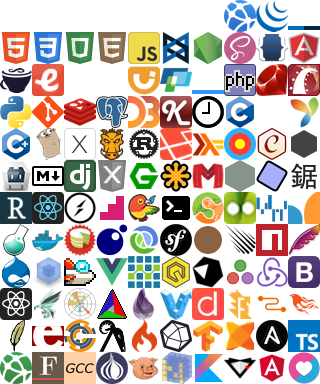
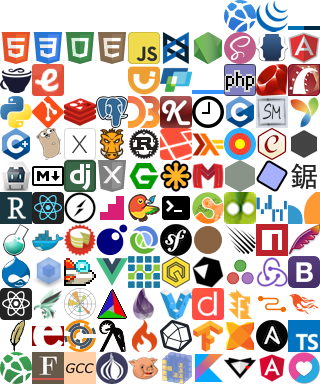
Finish Statsmodels scraper

Changed region(s): [[0.7812, 0.25, 0.9062, 0.3438]]

diff --git a/assets/stylesheets/global/_icons.scss b/assets/stylesheets/global/_icons.scss
@@ -88,6 +88,7 @@
 ._icon-knockout:before      { background-position: -5rem -3rem; }
 ._icon-moment:before        { background-position: -6rem -3rem; @extend %darkIconFix !optional; }
 ._icon-c:before             { background-position: -7rem -3rem; }
+._icon-statsmodels:before   { background-position: -8rem -3rem; }
 ._icon-yii:before,
 ._icon-yii1:before          { background-position: -9rem -3rem; }
 ._icon-cpp:before           { background-position: 0 -4rem; }

diff --git a/lib/docs/scrapers/statsmodels.rb b/lib/docs/scrapers/statsmodels.rb
@@ -1,9 +1,8 @@
 module Docs
   class Statsmodels < UrlScraper
-    self.name = 'Statsmodels'
     self.type = 'sphinx'
     self.release = '0.6.1'
-    self.base_url = "http://statsmodels.sourceforge.net/stable/"
+    self.base_url = 'http://statsmodels.sourceforge.net/stable/'
     self.root_path = 'index.html'
     self.links = {
       home: 'http://statsmodels.sourceforge.net/',
@@ -12,7 +11,7 @@ module Docs
 
     html_filters.push 'statsmodels/entries', 'statsmodels/clean_html', 'sphinx/clean_html'
 
-    options[:skip] = %w(about.html)
+    options[:skip] = %w(about.html search.html genindex.html)
     options[:skip_patterns] = [/\Arelease/, /\Adev/, /\A_modules/, /\Adatasets/]
 
     options[:attribution] = <<-HTML

diff --git a/lib/docs/filters/statsmodels/entries.rb b/lib/docs/filters/statsmodels/entries.rb
@@ -6,9 +6,12 @@ module Docs
           name = at_css('dt').content.strip
           name.sub! %r{\(.*}, '()' # Remove method arguments
           name.remove! %r{[\=\[].*} # Remove "[source]"
-          name.remove! %r{\A(class(method)?) (statsmodels\.)?}
+          name.remove! %r{\A(class(method)?) }
+          name.remove! %r{\Astatsmodels\.}
         else
           name = at_css('h1').content.strip
+          name.prepend 'Manual: ' if type == 'Manual'
+          name.prepend 'Example: ' if type == 'Examples'
         end
         name.remove! "\u{00B6}" # Remove ¶
         name

diff --git a/lib/docs/filters/sphinx/clean_html.rb b/lib/docs/filters/sphinx/clean_html.rb
@@ -2,7 +2,7 @@ module Docs
   class Sphinx
     class CleanHtmlFilter < Filter
       def call
-        css('.headerlink', 'hr', '#contents .topic-title', '#topics .topic-title', 'colgroup', '.line-block').remove
+        css('.headerlink', 'hr', '#contents .topic-title', '#topics .topic-title', 'colgroup', '.line-block', '.anchor-link').remove
 
         css('.contents > ul:first-child:last-child.simple > li:first-child:last-child').each do |node|
           node.parent.before(node.at_css('> ul')) if node.at_css('> ul')

diff --git a/lib/docs/filters/statsmodels/clean_html.rb b/lib/docs/filters/statsmodels/clean_html.rb
@@ -5,10 +5,10 @@ module Docs
         @doc = at_css('.body')
 
         if root_page?
-            at_css('h1').content = 'Statsmodels'
-            at_css('#basic-documentation').remove
-            at_css('#table-of-contents').remove
-            at_css('#indices-and-tables').remove
+          at_css('h1').content = 'Statsmodels'
+          at_css('#basic-documentation').remove
+          at_css('#table-of-contents').remove
+          at_css('#indices-and-tables').remove
         end
 
         doc

diff --git a/lib/docs/filters/pandas/clean_html.rb b/lib/docs/filters/pandas/clean_html.rb
@@ -13,8 +13,6 @@ module Docs
           node.before(node.children).remove
         end
 
-        css('.anchor-link').remove
-
         doc
       end
     end
